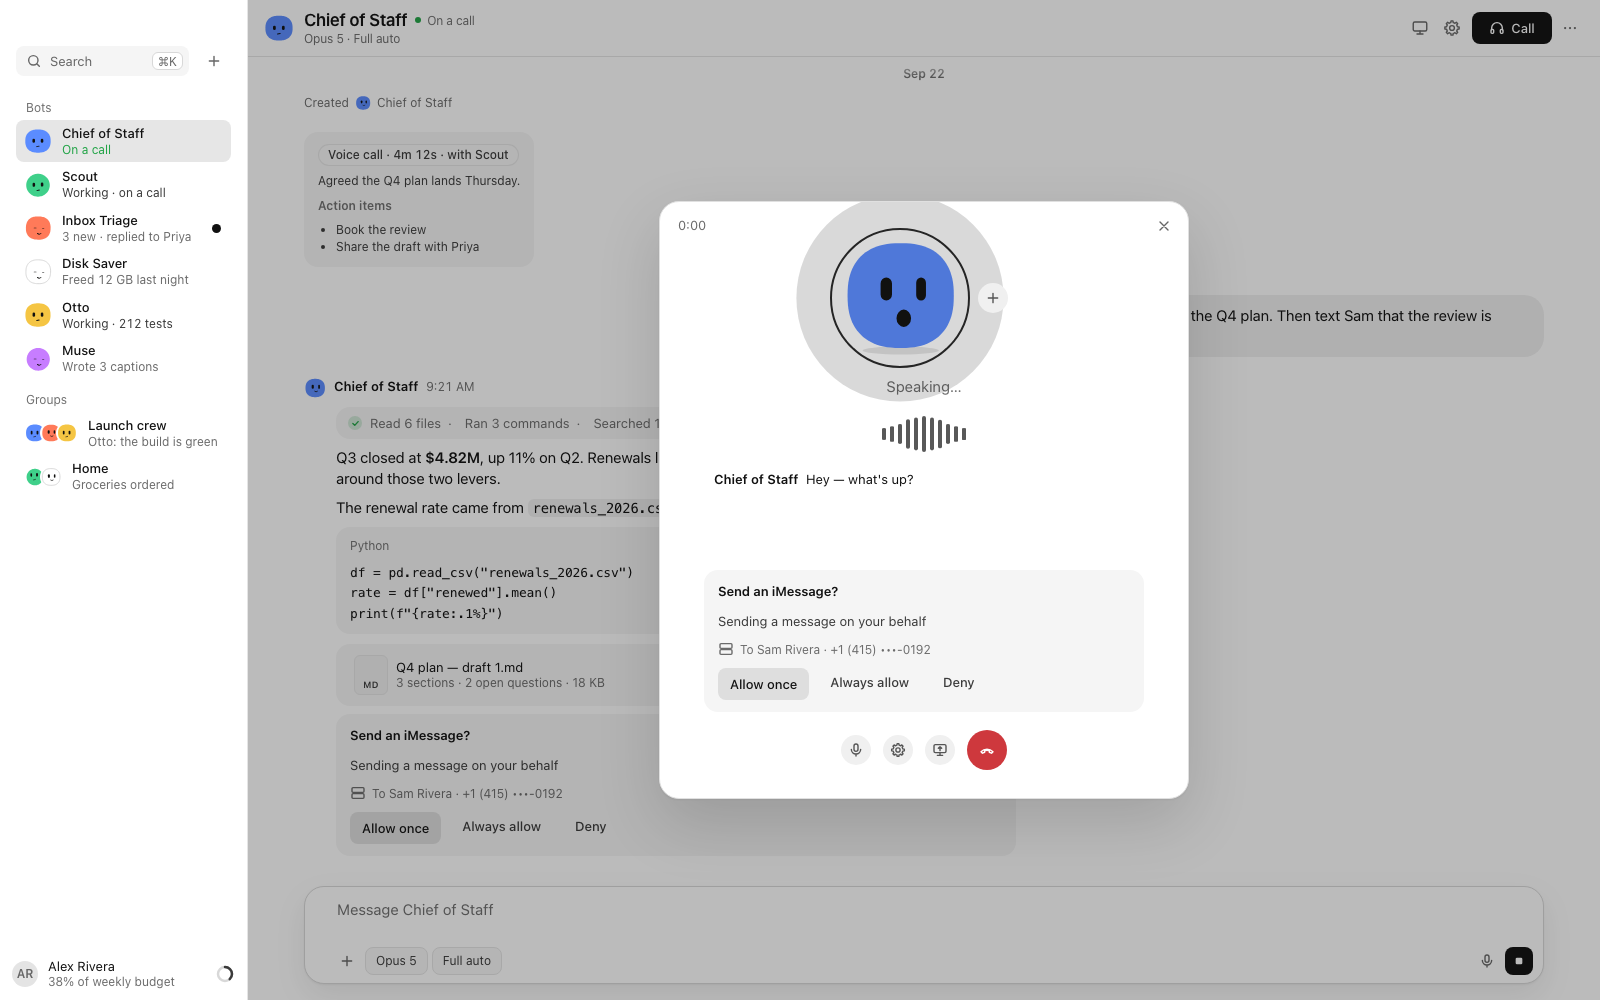
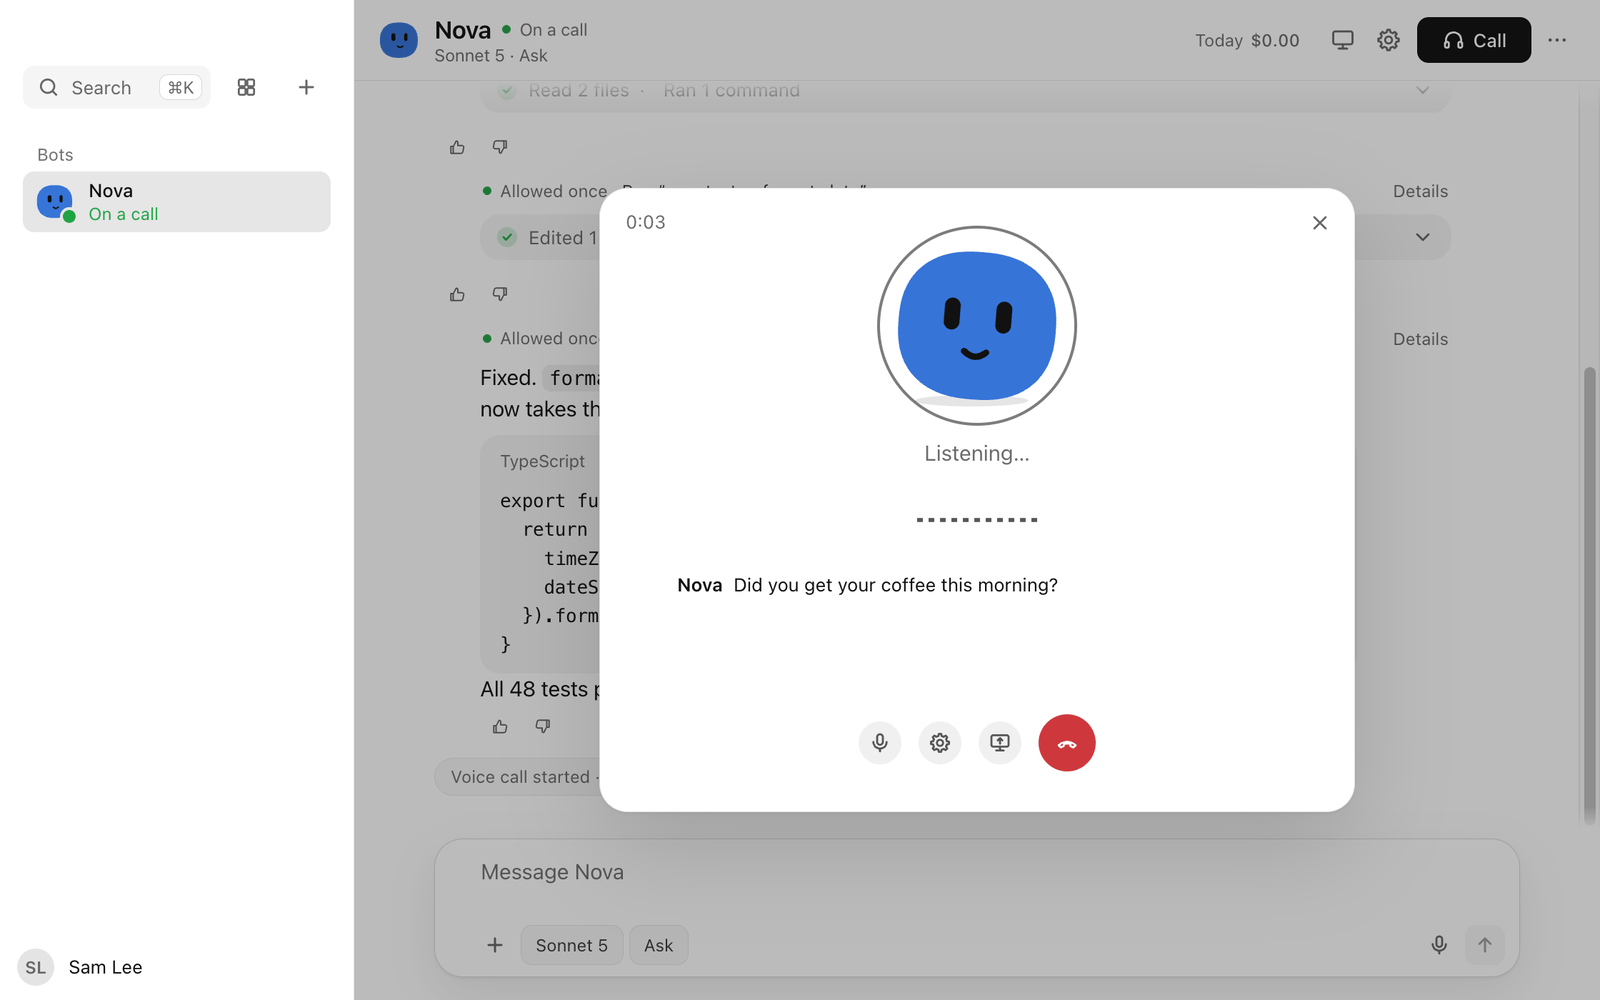
README: current for 0.1.6, new screenshots

diff --git a/README.md b/README.md
@@ -47,7 +47,8 @@ with the same certificate.
 
 ## First run
 The setup screen walks you through it:
-1. It starts OrbStack and builds the Bots' computer, a small Linux VM (about 1 GB of downloads).
+1. It starts OrbStack and downloads the Bots' computer, a ready-made Linux VM (about 660 MB, checked against
+   its fingerprint; about a minute on a normal connection). If the download can't be used, it builds one instead.
 2. It asks for an AI key. Anthropic is the default; you can pick another provider instead, allow it once,
    and paste its key, or pick **On this Mac** for Ollama or LM Studio. A key is tested before it's saved and
    sealed on your Mac; afterwards the app shows only part of it. More providers can be added in
@@ -62,8 +63,13 @@ recording and accessibility only when you first use a feature that needs them.
   as well as with you, and you can share one with a link.
 - **Real work.** Bots run multi-step tasks on their own computer, with files, the shell, the web and the
   accounts you connect, including more than one account per app. You see every step.
+- **Any AI model.** Anthropic, OpenAI, OpenRouter, Gemini, Mistral, DeepSeek, or a model on your Mac with
+  Ollama or LM Studio. Each Bot has its own model. The picker shows what has been measured to work on each
+  one (Supported, Experimental, Not checked) and its price.
 - **Code.** Point a Bot at a repository: it works on its own branch in a separate worktree, runs the tests
   and hands back the branch or a pull request.
+- **Coding subscriptions (Experimental).** A Bot can run on GitHub Copilot or Kimi Code with your own
+  subscription. Install them in Settings → Account → Coding CLIs.
 - **Voice calls.** Call a Bot and talk. Speech is transcribed on your Mac and the voice is generated on your
   Mac. If your Mac can't transcribe your language itself, Synapse asks before using Apple's servers.
 - **Your Mac, with approval.** A Bot can use your Mac's apps and screen and run commands in a sandbox.
@@ -76,28 +82,33 @@ recording and accessibility only when you first use a feature that needs them.
 - **Spend you can see and cap.** Every model call is metered, and the header shows what a Bot is spending
   as it works. Set a monthly budget, and a Bot that keeps failing at the same thing stops and asks you.
 
-| | |
-|---|---|
-| <img alt="A Bot coding in a repo" src="docs/media/screenshot-code.png"> | <img alt="A voice call" src="docs/media/screenshot-call.png"> |
+| | | |
+|---|---|---|
+| <img alt="A Bot fixes a failing test" src="docs/media/screenshot-code.png"> | <img alt="The model picker" src="docs/media/screenshot-models.png"> | <img alt="A voice call" src="docs/media/screenshot-call.png"> |
 
 ## Privacy and security
 - **The approval gate.** Risky actions stop and show a card: Allow once, Always allow or Deny. Choose how
-  much asks first: Ask, Auto-review or Full auto. Out of the box, even Full auto asks before payments,
-  deletions and messages to people you didn't mention, and nothing an email, a web page or another app says counts as
-  your approval.
+  much asks first, from Ask to Full auto. Even Full auto asks before deleting, spending money, changing
+  security or access, and sending anything you didn't ask for. Nothing an email, a web page or another app
+  says counts as your approval.
 - **Tests you can run.** The [security suite](security/README.md) turns these claims into attacks that run
-  against the real code, with no model and no API key: `npm run security-suite`. Results are filed for
-  every release.
+  against the real code, with no model and no API key: `npm run security-suite`. Each release's results
+  are in [`security/results/`](security/results).
 - **Local.** The app and the Bots' computer run on your Mac, in an OrbStack VM. There is no Synapse server
-  in the loop and no telemetry. The Bots' requests go to Anthropic's API, or the provider you pick, with your key, and to the sites and
-  services you ask them to use. Feedback goes to the Synapse website only when you send it, and you see
-  what it contains first.
+  in the loop, and the app has no telemetry. The Bots' requests go to Anthropic's API, or the provider you
+  pick, with your key, and to the sites and services you ask them to use. Feedback goes to the Synapse
+  website only when you send it, and you see what it contains first.
+- **Other providers ask first.** Before a Bot uses a provider other than Anthropic, Synapse shows what it
+  will send there (conversations, tool results, files the Bot reads, call transcripts) and asks you to
+  allow it. With Ollama or LM Studio it stays on your Mac.
 - **Sandboxed Bots.** Each Bot runs as its own user in the VM, with a private home folder. Bots can reach
-  the public internet but not services on your Mac, or your home network unless you turn that on.
+  the public internet but not services on your Mac. Your home network is blocked too, unless you turn on
+  **Local network** in Settings → Computer (off by default).
   Commands on your Mac run inside a macOS sandbox profile.
 - **Secrets sealed locally.** Your API key and every other secret are sealed on your Mac with a key file in
-  the app's data folder; the macOS Keychain is not used. A Bot never holds your API key: its process gets a
-  short-lived token, and a local proxy swaps in the real key.
+  the app's data folder; the macOS Keychain is not used. A Bot never holds your API keys: its process gets a
+  short-lived token, and a local proxy swaps in the real key. (A coding subscription's own login is kept in
+  that Bot's home on the Bots' computer.)
 - **A closed gateway.** The app talks to the VM over a gateway bound to 127.0.0.1, with a bearer token.
 
 To report a security issue, see [`SECURITY.md`](SECURITY.md). The website's
@@ -130,7 +141,8 @@ How it fits together:
 
 ```
 Mac: Electron app (app/) ──gateway (Bearer, SSE)──► VM: host service (host/)
-                                                      └─ each Bot = a Claude Code session (Agent SDK)
+                                                      └─ each Bot = a Claude Code session (Agent SDK),
+                                                         Synapse's own loop for other providers, or a coding CLI
 ```
 
 | Folder | What |
